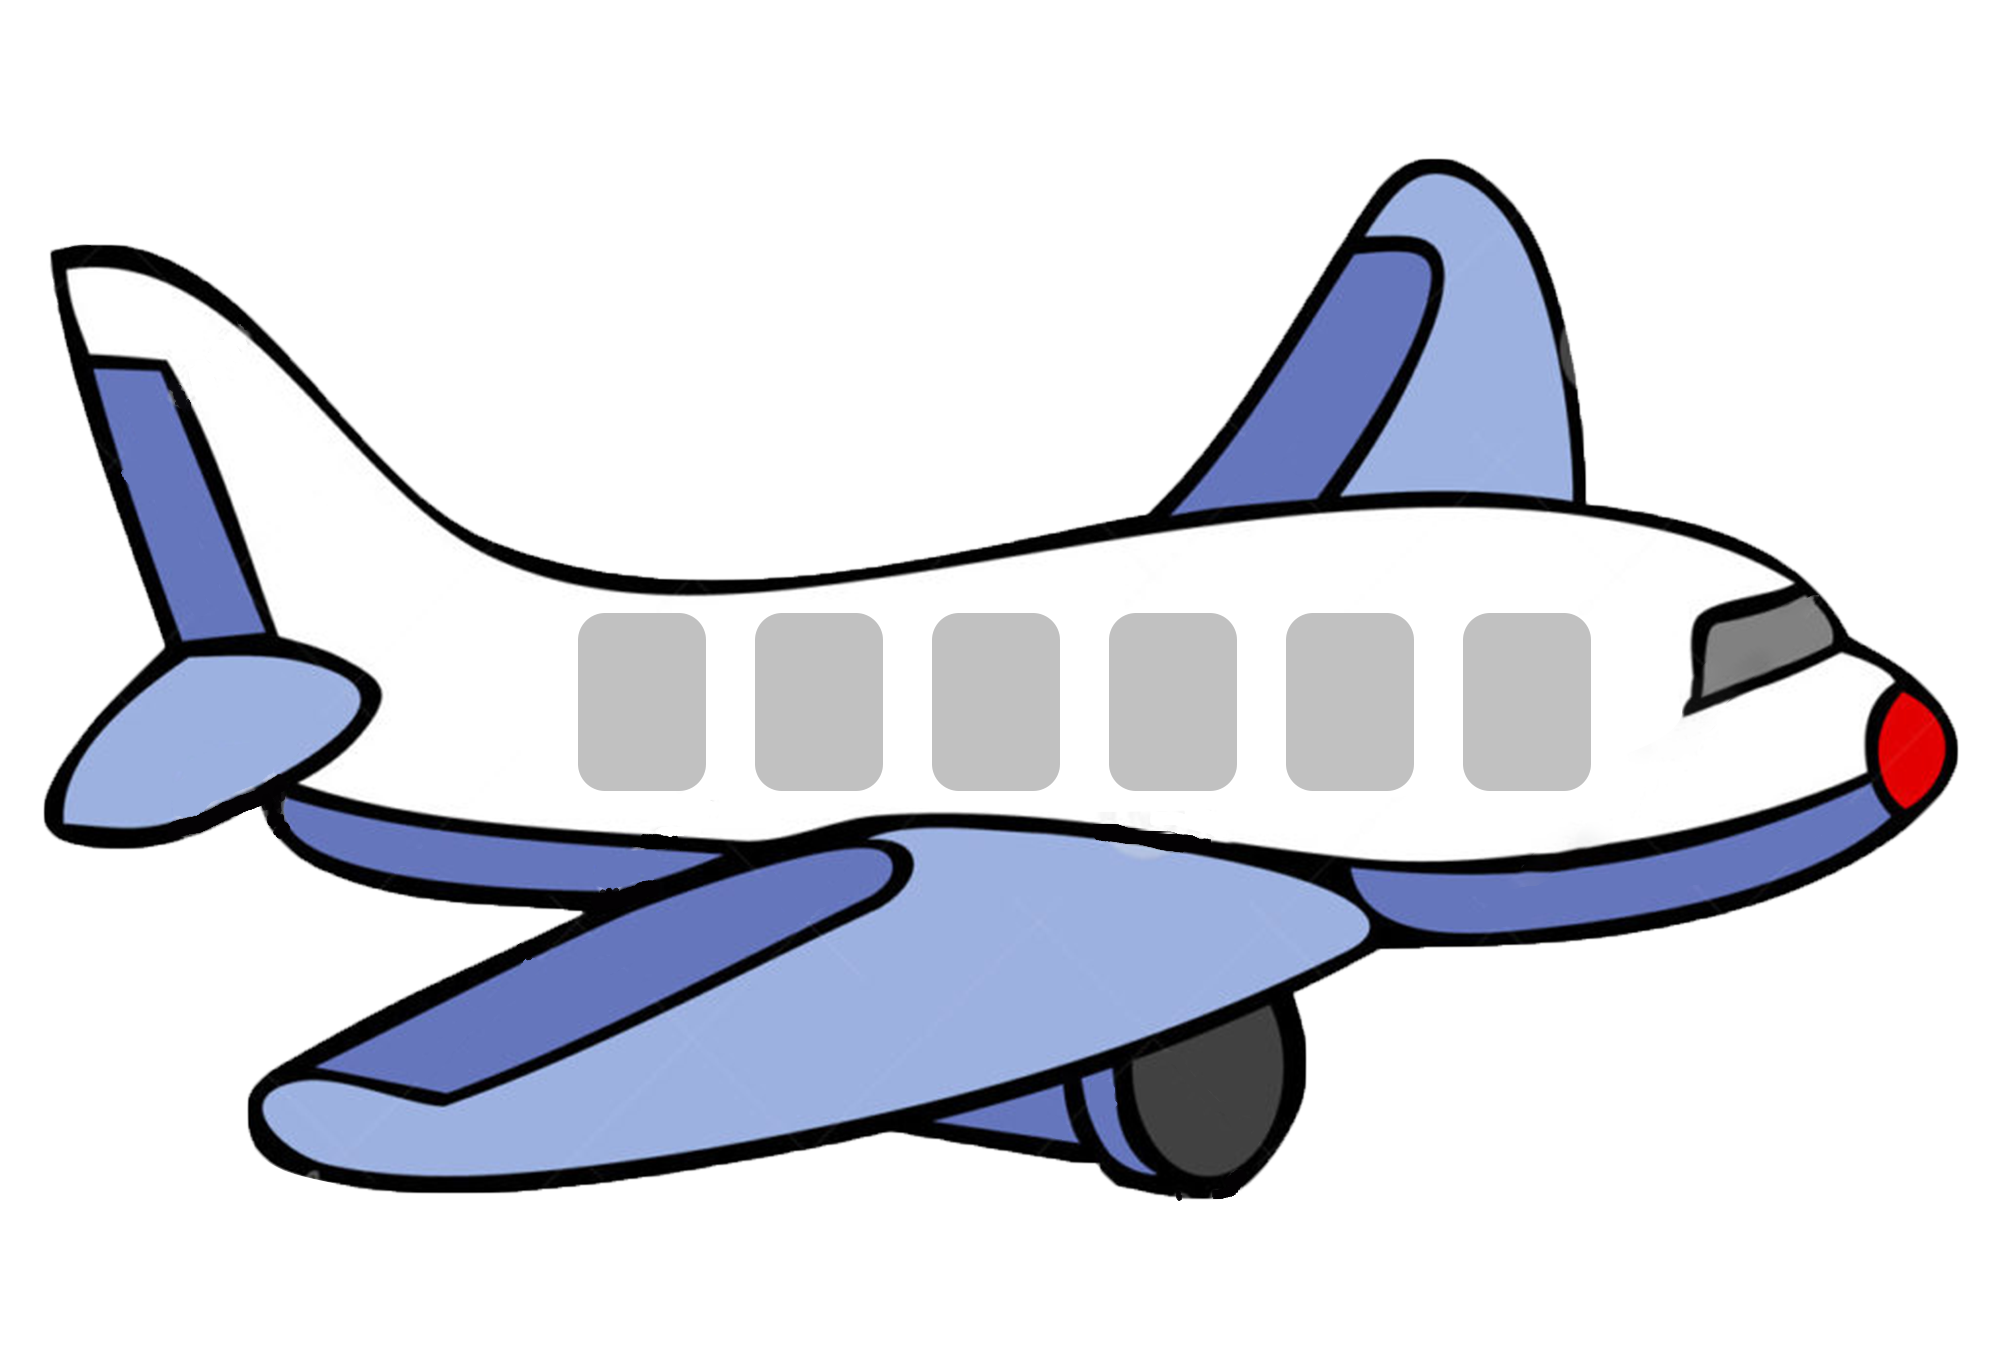
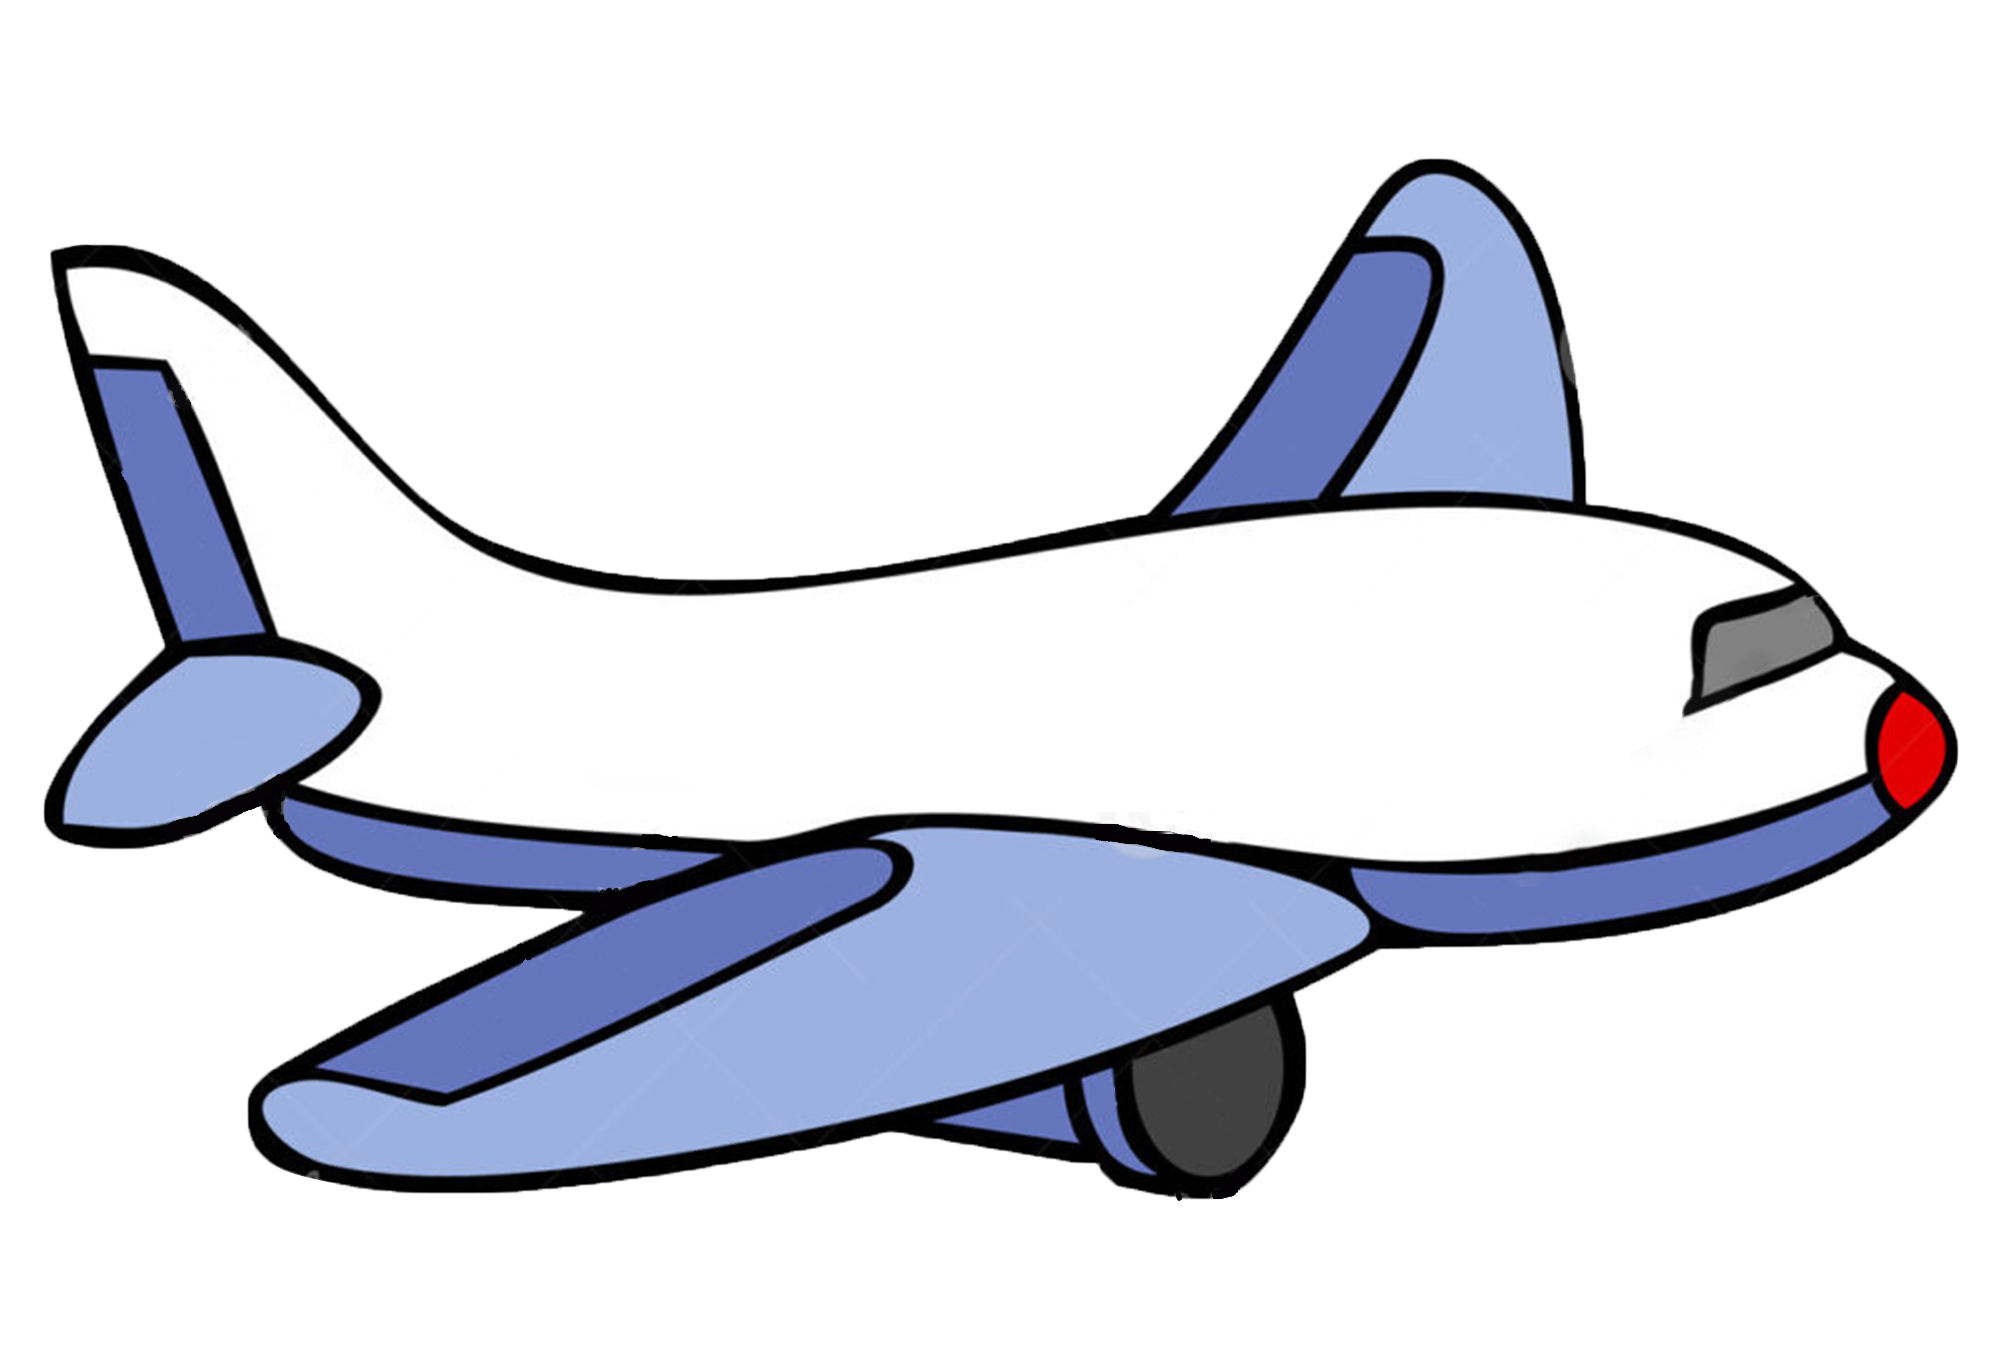
avion_sans_hublot

Changed region(s): [[0.279, 0.433, 0.806, 0.5876]]

diff --git a/airwild2/avion.css b/airwild2/avion.css
@@ -6,7 +6,7 @@
     background-image: url("PlaneAirWild.png");
     background-position: center;
     height: 60vh;
-    background-size: 100% 100%;
+    background-size: 90vw 70vh;
     background-repeat: no-repeat;
     align-items: center;
     animation: mymove 5s;           /* animation translation */
@@ -17,14 +17,18 @@
 }
 
 .hublot{
-    border: 2px solid black;
-    background-color: black;
+    border: 2px solid lightgrey;
+    background-color: lightgray;
     border-radius: 15px;
     height: 60px;
     padding-left: 10px;
     padding-top: 5px;
     height: 65px;
     margin-top: 15px;
+}
+
+.col-1{
+    margin-right: 10px;
 }
 
 img{
